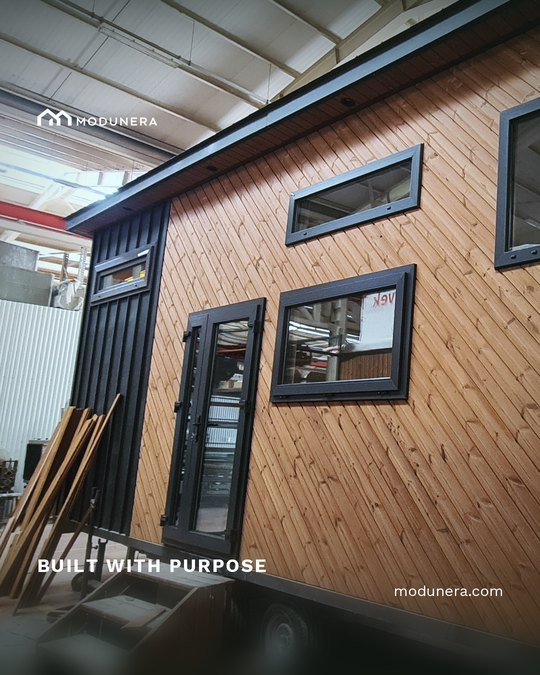
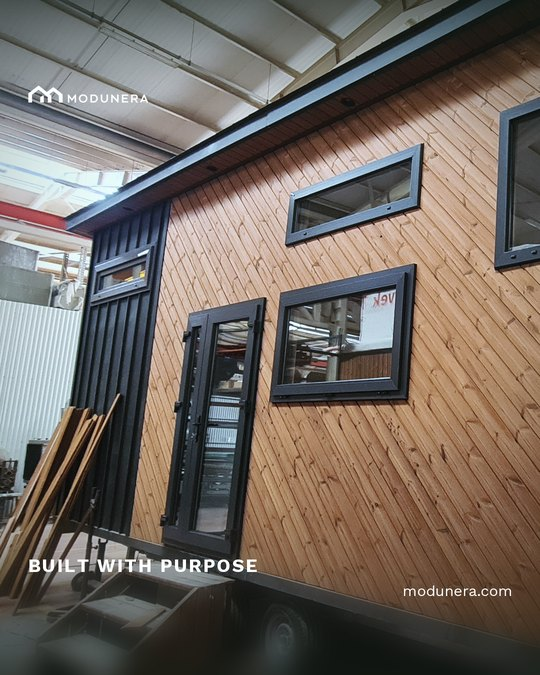
social: tighten the outer margin to 56 px and lift the lockup
The logo moves left and up, and modunera.com moves right, by moving the one
margin all four elements share rather than nudging two of them: 74 px to 56 px.
A logo pulled left while the caption under it stays put reads as a mistake, so
the caption and the card statement move with it and everything stays on one
optical frame.

The lockup also rises 46 px, to 171 px from the top. That is measured against the
crop, not guessed: the profile grid shows a centred square starting at 135 px, so
36 px of headroom remains inside it. Zoomed to the pixel, the mark is clear of the
edge — it reads tight at grid scale but nothing is cut.

Head scrim from 118 to 140 at a slightly deeper ramp, because the white wordmark
was softening over the brightest sky in two of the frames. Still a gradient at the
head only; the middle of every photograph is untouched.

Geometry recorded in 02-design-system/brand-rules.md so the final render at
1080x1350 reproduces it exactly.

Claude-Session: https://claude.ai/code/session_01BLg6N5UVabUgKBxSMhyrDF

Changed region(s): [[0.0593, 0.8089, 0.5037, 0.8711], [0.0296, 0.1244, 0.2963, 0.1867], [0.7407, 0.8711, 0.9481, 0.9022]]

diff --git a/tools/social/build_instagram_grid.py b/tools/social/build_instagram_grid.py
@@ -61,7 +61,10 @@ INK = (32, 46, 36)
 # the bottom of a 1080x1350 post. Nothing that identifies the brand goes there.
 SAFE_TOP = 135
 SAFE_BOTTOM = 135
-MARGIN = 74
+# Tightened from 74. One margin for the logo, the caption, the card statement and
+# the domain, so everything sits on the same optical frame — a logo pulled left
+# while the caption below it stays put reads as a mistake, not as a decision.
+MARGIN = 56
 
 
 def font(name: str, size: int) -> ImageFont.FreeTypeFont:
@@ -209,7 +212,7 @@ def cover(im: Image.Image, w: int, h: int, focus: float = 0.5) -> Image.Image:
     return resized.crop((0, top, w, top + h))
 
 
-def head_scrim(im: Image.Image, height_ratio: float = 0.22, strength: int = 118) -> Image.Image:
+def head_scrim(im: Image.Image, height_ratio: float = 0.24, strength: int = 140) -> Image.Image:
     """A soft darkening at the head only, so the white logo reads on a bright sky.
 
     Without it the lockup vanished on the workshop wall and the tree canopy — a
@@ -251,7 +254,7 @@ def place_logo(canvas: Image.Image, light: bool) -> None:
     logo = Image.open(BRAND / name).convert("RGBA")
     target_w = 246
     logo = logo.resize((target_w, round(logo.height * target_w / logo.width)), Image.LANCZOS)
-    canvas.paste(logo, (MARGIN, SAFE_TOP + 82), logo)
+    canvas.paste(logo, (MARGIN, SAFE_TOP + 36), logo)
 
 
 def place_domain(draw: ImageDraw.ImageDraw, light: bool) -> None:

diff --git a/social/instagram/02-design-system/brand-rules.md b/social/instagram/02-design-system/brand-rules.md
@@ -67,7 +67,12 @@ Rules, all enforced by the script:
 
 - **246 px wide** on a 1080 px post — 22.8% of the width. It is a signature, not
   a headline.
-- **Top left**, 74 px from the left edge, 217 px from the top.
+- **Top left**, 56 px from the left edge, 171 px from the top. That leaves 36 px
+  of headroom inside the square the profile grid shows — measured, not assumed:
+  the grid crop starts at 135 px and the lockup starts at 171 px.
+- The outer margin is 56 px for everything — logo, caption, card statement and
+  domain — so they sit on one optical frame. A logo pulled left while the caption
+  below it stays put reads as a mistake rather than as a decision.
 - Never centred, never enlarged, never placed on its own box or plate behind the
   photograph, never re-coloured, never redrawn.
 - No alternative lockup is used. The "digital sunrise" direction has been deleted
@@ -93,10 +98,10 @@ Posts are **1080 × 1350** (4:5). Instagram shows them in the profile grid as a
 
 | Element | Position |
 |---|---|
-| Outer margin | 74 px |
-| Logo | x 74, y 217 |
-| Caption baseline | x 74, y 1109 |
-| Domain | right-aligned to x 1006, baseline y 1185 |
+| Outer margin | 56 px |
+| Logo | x 56, y 171 |
+| Caption baseline | x 56, y 1109 |
+| Domain | right-aligned to x 1024, baseline y 1185 |
 | Card statement block | optically centred in the safe square, 26 px above true centre |
 | Rule above card statement | 92 × 3 px, 54 px above the first line |
 
